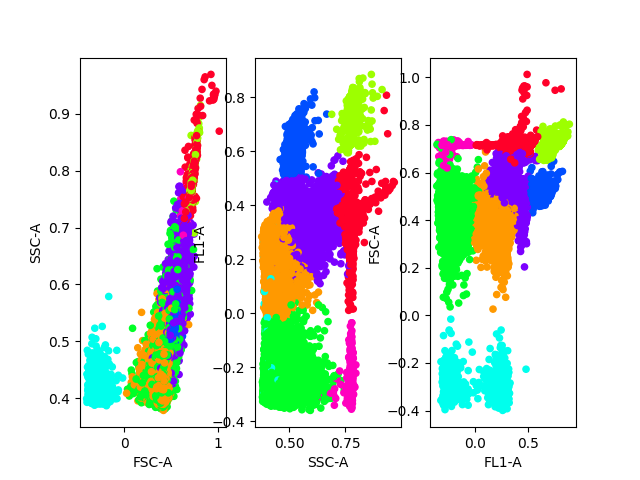
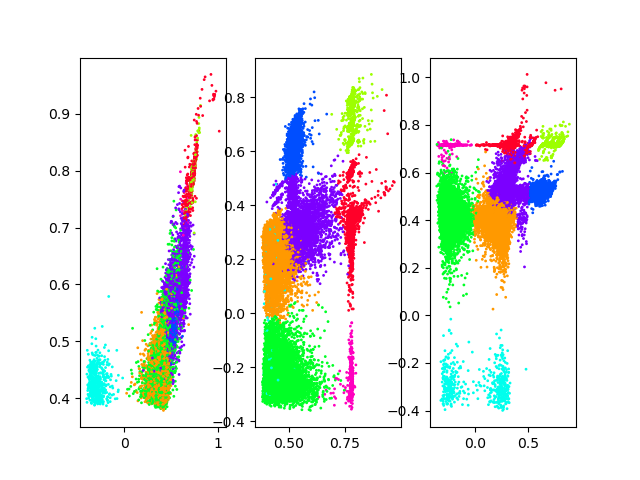
to shrink points on the scatter plot

diff --git a/plot_clust.py b/plot_clust.py
@@ -6,16 +6,11 @@ feature_set = np.load('./script_data/reduced.npy')
 
 fig, axes = plt.subplots(1, 3)
 
-axes[0].scatter(feature_set[:, 0], feature_set[:, 1], s=20, c=clusters, cmap='gist_rainbow')
-axes[0].set_xlabel('FSC-A')
-axes[0].set_ylabel('SSC-A')
-
-axes[1].scatter(feature_set[:, 1], feature_set[:, 2], s=20, c=clusters, cmap='gist_rainbow')
-axes[1].set_xlabel('SSC-A')
-axes[1].set_ylabel('FL1-A')
-
-axes[2].scatter(feature_set[:, 2], feature_set[:, 0], s=20, c=clusters, cmap='gist_rainbow')
-axes[2].set_xlabel('FL1-A')
-axes[2].set_ylabel('FSC-A')
+for n in range(np.shape(axes)[0]):
+    axes[n].scatter(feature_set[:, n],
+                    feature_set[:, (n+1)%3],
+                    s=1,
+                    c=clusters,
+                    cmap='gist_rainbow')
 
 plt.savefig('./plots/cluster_plots.png')
